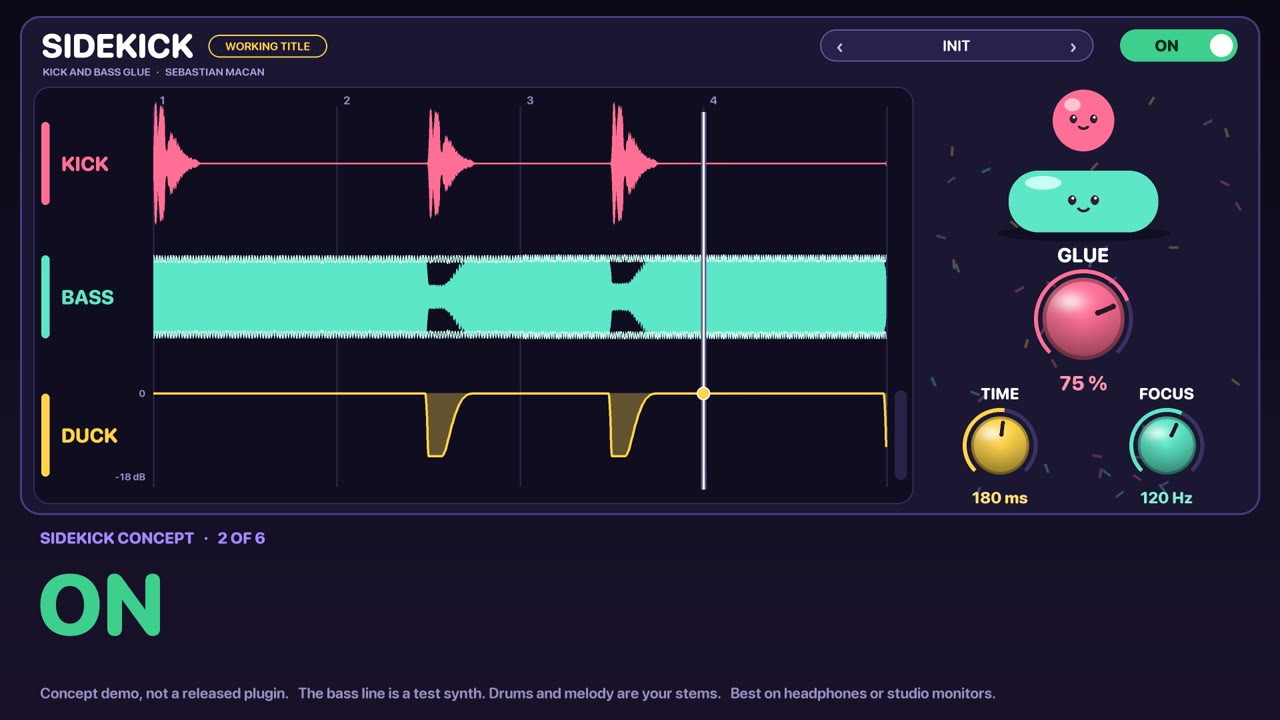
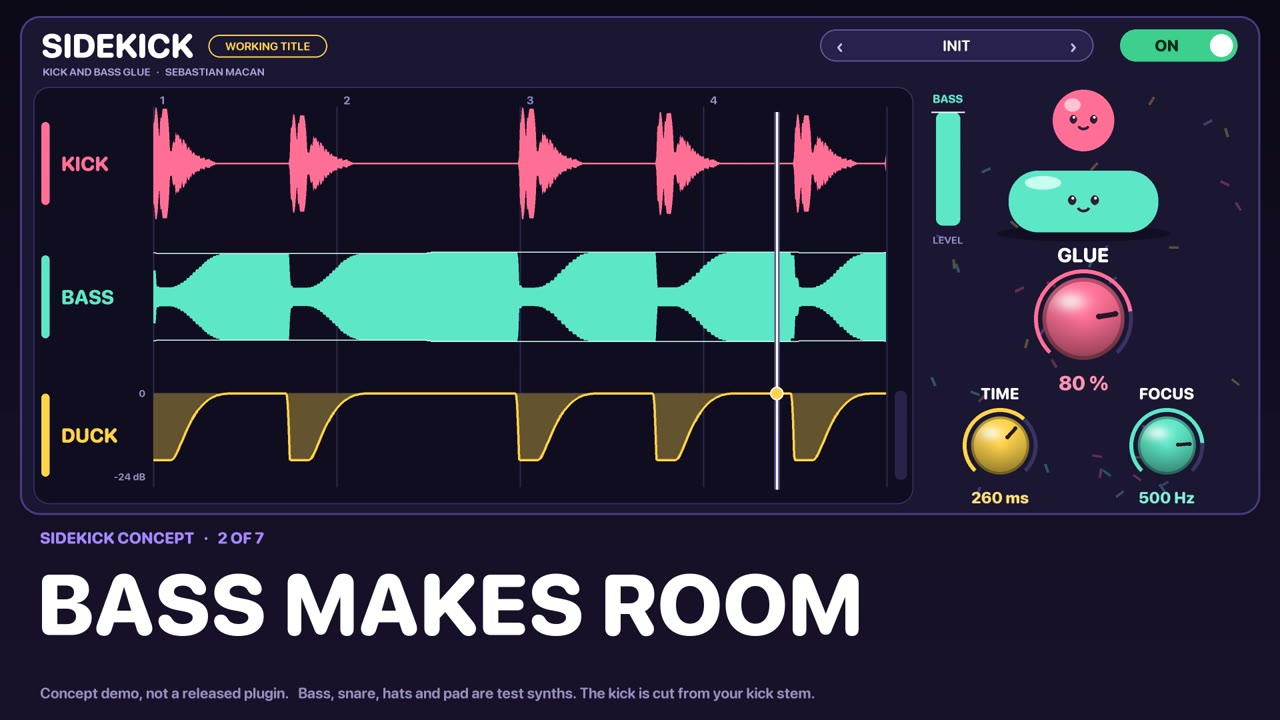
Lab Nov 25: Sidekick v2 video (loud bass)

diff --git a/index.html b/index.html
@@ -697,7 +697,7 @@
       <h2 style="background:linear-gradient(135deg,#7c8cff,#ffd27a);-webkit-background-clip:text;background-clip:text;-webkit-text-fill-color:transparent;">LATE BIRD</h2>
       <p class="tag">Late on purpose.</p>
       <p class="desc">A drum machine with a groove grid. Load a kick, a snare and a hat, or a whole sample pack. Sixteen steps per lane. Drag any hit late or early and the beat stops sounding like a computer.</p>
-      <a class="shot" href="lab/nov25/#latebird" style="display:block"><img src="lab/nov25/latebird.jpg?v=v1125a" alt="LATE BIRD concept video" loading="lazy" style="width:100%;display:block;border-radius:10px"></a>
+      <a class="shot" href="lab/nov25/#latebird" style="display:block"><img src="lab/nov25/latebird.jpg?v=v1125b" alt="LATE BIRD concept video" loading="lazy" style="width:100%;display:block;border-radius:10px"></a>
       <a class="dl" href="lab/nov25/#latebird" style="background:linear-gradient(135deg,#7c8cff,#ffd27a);">Watch the concept video</a>
       <div class="meta">Concept demo &middot; not a plugin yet</div>
     </div>
@@ -707,7 +707,7 @@
       <h2 style="background:linear-gradient(135deg,#bfe9ff,#b89cff);-webkit-background-clip:text;background-clip:text;-webkit-text-fill-color:transparent;">BOO TAPS</h2>
       <p class="tag">Tiny hits between the hits.</p>
       <p class="desc">Put it on a snare or a whole drum loop. It listens for the hits and adds quiet ghost notes in the gaps, the little taps a real drummer plays without thinking.</p>
-      <a class="shot" href="lab/nov25/#bootaps" style="display:block"><img src="lab/nov25/bootaps.jpg?v=v1125a" alt="BOO TAPS concept video" loading="lazy" style="width:100%;display:block;border-radius:10px"></a>
+      <a class="shot" href="lab/nov25/#bootaps" style="display:block"><img src="lab/nov25/bootaps.jpg?v=v1125b" alt="BOO TAPS concept video" loading="lazy" style="width:100%;display:block;border-radius:10px"></a>
       <a class="dl" href="lab/nov25/#bootaps" style="background:linear-gradient(135deg,#bfe9ff,#b89cff);">Watch the concept video</a>
       <div class="meta">Concept demo &middot; not a plugin yet</div>
     </div>
@@ -717,7 +717,7 @@
       <h2 style="background:linear-gradient(135deg,#3cdcff,#7dffb0);-webkit-background-clip:text;background-clip:text;-webkit-text-fill-color:transparent;">TUNA</h2>
       <p class="tag">Drums in key. One knob.</p>
       <p class="desc">Pick the key of the song. TUNA hears the pitch of the kick and the snare and slides each one to a note that fits.</p>
-      <a class="shot" href="lab/nov25/#tuna" style="display:block"><img src="lab/nov25/tuna.jpg?v=v1125a" alt="TUNA concept video" loading="lazy" style="width:100%;display:block;border-radius:10px"></a>
+      <a class="shot" href="lab/nov25/#tuna" style="display:block"><img src="lab/nov25/tuna.jpg?v=v1125b" alt="TUNA concept video" loading="lazy" style="width:100%;display:block;border-radius:10px"></a>
       <a class="dl" href="lab/nov25/#tuna" style="background:linear-gradient(135deg,#3cdcff,#7dffb0);">Watch the concept video</a>
       <div class="meta">Concept demo &middot; not a plugin yet</div>
     </div>
@@ -727,7 +727,7 @@
       <h2 style="background:linear-gradient(135deg,#8fd62a,#ffe066);-webkit-background-clip:text;background-clip:text;-webkit-text-fill-color:transparent;">GECKO</h2>
       <p class="tag">Short and tight. Or long and washy.</p>
       <p class="desc">One knob for the tail of every drum hit. Left makes hits short and tight. Right lets them ring out. The front of the hit is never touched.</p>
-      <a class="shot" href="lab/nov25/#gecko" style="display:block"><img src="lab/nov25/gecko.jpg?v=v1125a" alt="GECKO concept video" loading="lazy" style="width:100%;display:block;border-radius:10px"></a>
+      <a class="shot" href="lab/nov25/#gecko" style="display:block"><img src="lab/nov25/gecko.jpg?v=v1125b" alt="GECKO concept video" loading="lazy" style="width:100%;display:block;border-radius:10px"></a>
       <a class="dl" href="lab/nov25/#gecko" style="background:linear-gradient(135deg,#8fd62a,#ffe066);">Watch the concept video</a>
       <div class="meta">Concept demo &middot; not a plugin yet</div>
     </div>
@@ -737,7 +737,7 @@
       <h2 style="background:linear-gradient(135deg,#ff6fa8,#7dffcf);-webkit-background-clip:text;background-clip:text;-webkit-text-fill-color:transparent;">SIDEKICK</h2>
       <p class="tag">The bass makes room for the kick.</p>
       <p class="desc">Put it on the bass. It hears the kick and dips the low end of the bass under every kick, then lets it swell back. No sidechain routing.</p>
-      <a class="shot" href="lab/nov25/#sidekick" style="display:block"><img src="lab/nov25/sidekick.jpg?v=v1125a" alt="SIDEKICK concept video" loading="lazy" style="width:100%;display:block;border-radius:10px"></a>
+      <a class="shot" href="lab/nov25/#sidekick" style="display:block"><img src="lab/nov25/sidekick.jpg?v=v1125b" alt="SIDEKICK concept video" loading="lazy" style="width:100%;display:block;border-radius:10px"></a>
       <a class="dl" href="lab/nov25/#sidekick" style="background:linear-gradient(135deg,#ff6fa8,#7dffcf);">Watch the concept video</a>
       <div class="meta">Concept demo &middot; not a plugin yet</div>
     </div>
@@ -747,7 +747,7 @@
       <h2 style="background:linear-gradient(135deg,#ffb347,#fff3d0);-webkit-background-clip:text;background-clip:text;-webkit-text-fill-color:transparent;">LOOSE GOOSE</h2>
       <p class="tag">Hats played by hand.</p>
       <p class="desc">Programmed hats all sound the same. LOOSE GOOSE makes every hat a little different in level, brightness and timing, so they sound played.</p>
-      <a class="shot" href="lab/nov25/#loosegoose" style="display:block"><img src="lab/nov25/loosegoose.jpg?v=v1125a" alt="LOOSE GOOSE concept video" loading="lazy" style="width:100%;display:block;border-radius:10px"></a>
+      <a class="shot" href="lab/nov25/#loosegoose" style="display:block"><img src="lab/nov25/loosegoose.jpg?v=v1125b" alt="LOOSE GOOSE concept video" loading="lazy" style="width:100%;display:block;border-radius:10px"></a>
       <a class="dl" href="lab/nov25/#loosegoose" style="background:linear-gradient(135deg,#ffb347,#fff3d0);">Watch the concept video</a>
       <div class="meta">Concept demo &middot; not a plugin yet</div>
     </div>

diff --git a/lab/nov25_section.html b/lab/nov25_section.html
@@ -7,7 +7,7 @@
       <h2 style="background:linear-gradient(135deg,#7c8cff,#ffd27a);-webkit-background-clip:text;background-clip:text;-webkit-text-fill-color:transparent;">LATE BIRD</h2>
       <p class="tag">Late on purpose.</p>
       <p class="desc">A drum machine with a groove grid. Load a kick, a snare and a hat, or a whole sample pack. Sixteen steps per lane. Drag any hit late or early and the beat stops sounding like a computer.</p>
-      <a class="shot" href="lab/nov25/#latebird" style="display:block"><img src="lab/nov25/latebird.jpg?v=v1125a" alt="LATE BIRD concept video" loading="lazy" style="width:100%;display:block;border-radius:10px"></a>
+      <a class="shot" href="lab/nov25/#latebird" style="display:block"><img src="lab/nov25/latebird.jpg?v=v1125b" alt="LATE BIRD concept video" loading="lazy" style="width:100%;display:block;border-radius:10px"></a>
       <a class="dl" href="lab/nov25/#latebird" style="background:linear-gradient(135deg,#7c8cff,#ffd27a);">Watch the concept video</a>
       <div class="meta">Concept demo &middot; not a plugin yet</div>
     </div>
@@ -17,7 +17,7 @@
       <h2 style="background:linear-gradient(135deg,#bfe9ff,#b89cff);-webkit-background-clip:text;background-clip:text;-webkit-text-fill-color:transparent;">BOO TAPS</h2>
       <p class="tag">Tiny hits between the hits.</p>
       <p class="desc">Put it on a snare or a whole drum loop. It listens for the hits and adds quiet ghost notes in the gaps, the little taps a real drummer plays without thinking.</p>
-      <a class="shot" href="lab/nov25/#bootaps" style="display:block"><img src="lab/nov25/bootaps.jpg?v=v1125a" alt="BOO TAPS concept video" loading="lazy" style="width:100%;display:block;border-radius:10px"></a>
+      <a class="shot" href="lab/nov25/#bootaps" style="display:block"><img src="lab/nov25/bootaps.jpg?v=v1125b" alt="BOO TAPS concept video" loading="lazy" style="width:100%;display:block;border-radius:10px"></a>
       <a class="dl" href="lab/nov25/#bootaps" style="background:linear-gradient(135deg,#bfe9ff,#b89cff);">Watch the concept video</a>
       <div class="meta">Concept demo &middot; not a plugin yet</div>
     </div>
@@ -27,7 +27,7 @@
       <h2 style="background:linear-gradient(135deg,#3cdcff,#7dffb0);-webkit-background-clip:text;background-clip:text;-webkit-text-fill-color:transparent;">TUNA</h2>
       <p class="tag">Drums in key. One knob.</p>
       <p class="desc">Pick the key of the song. TUNA hears the pitch of the kick and the snare and slides each one to a note that fits.</p>
-      <a class="shot" href="lab/nov25/#tuna" style="display:block"><img src="lab/nov25/tuna.jpg?v=v1125a" alt="TUNA concept video" loading="lazy" style="width:100%;display:block;border-radius:10px"></a>
+      <a class="shot" href="lab/nov25/#tuna" style="display:block"><img src="lab/nov25/tuna.jpg?v=v1125b" alt="TUNA concept video" loading="lazy" style="width:100%;display:block;border-radius:10px"></a>
       <a class="dl" href="lab/nov25/#tuna" style="background:linear-gradient(135deg,#3cdcff,#7dffb0);">Watch the concept video</a>
       <div class="meta">Concept demo &middot; not a plugin yet</div>
     </div>
@@ -37,7 +37,7 @@
       <h2 style="background:linear-gradient(135deg,#8fd62a,#ffe066);-webkit-background-clip:text;background-clip:text;-webkit-text-fill-color:transparent;">GECKO</h2>
       <p class="tag">Short and tight. Or long and washy.</p>
       <p class="desc">One knob for the tail of every drum hit. Left makes hits short and tight. Right lets them ring out. The front of the hit is never touched.</p>
-      <a class="shot" href="lab/nov25/#gecko" style="display:block"><img src="lab/nov25/gecko.jpg?v=v1125a" alt="GECKO concept video" loading="lazy" style="width:100%;display:block;border-radius:10px"></a>
+      <a class="shot" href="lab/nov25/#gecko" style="display:block"><img src="lab/nov25/gecko.jpg?v=v1125b" alt="GECKO concept video" loading="lazy" style="width:100%;display:block;border-radius:10px"></a>
       <a class="dl" href="lab/nov25/#gecko" style="background:linear-gradient(135deg,#8fd62a,#ffe066);">Watch the concept video</a>
       <div class="meta">Concept demo &middot; not a plugin yet</div>
     </div>
@@ -47,7 +47,7 @@
       <h2 style="background:linear-gradient(135deg,#ff6fa8,#7dffcf);-webkit-background-clip:text;background-clip:text;-webkit-text-fill-color:transparent;">SIDEKICK</h2>
       <p class="tag">The bass makes room for the kick.</p>
       <p class="desc">Put it on the bass. It hears the kick and dips the low end of the bass under every kick, then lets it swell back. No sidechain routing.</p>
-      <a class="shot" href="lab/nov25/#sidekick" style="display:block"><img src="lab/nov25/sidekick.jpg?v=v1125a" alt="SIDEKICK concept video" loading="lazy" style="width:100%;display:block;border-radius:10px"></a>
+      <a class="shot" href="lab/nov25/#sidekick" style="display:block"><img src="lab/nov25/sidekick.jpg?v=v1125b" alt="SIDEKICK concept video" loading="lazy" style="width:100%;display:block;border-radius:10px"></a>
       <a class="dl" href="lab/nov25/#sidekick" style="background:linear-gradient(135deg,#ff6fa8,#7dffcf);">Watch the concept video</a>
       <div class="meta">Concept demo &middot; not a plugin yet</div>
     </div>
@@ -57,7 +57,7 @@
       <h2 style="background:linear-gradient(135deg,#ffb347,#fff3d0);-webkit-background-clip:text;background-clip:text;-webkit-text-fill-color:transparent;">LOOSE GOOSE</h2>
       <p class="tag">Hats played by hand.</p>
       <p class="desc">Programmed hats all sound the same. LOOSE GOOSE makes every hat a little different in level, brightness and timing, so they sound played.</p>
-      <a class="shot" href="lab/nov25/#loosegoose" style="display:block"><img src="lab/nov25/loosegoose.jpg?v=v1125a" alt="LOOSE GOOSE concept video" loading="lazy" style="width:100%;display:block;border-radius:10px"></a>
+      <a class="shot" href="lab/nov25/#loosegoose" style="display:block"><img src="lab/nov25/loosegoose.jpg?v=v1125b" alt="LOOSE GOOSE concept video" loading="lazy" style="width:100%;display:block;border-radius:10px"></a>
       <a class="dl" href="lab/nov25/#loosegoose" style="background:linear-gradient(135deg,#ffb347,#fff3d0);">Watch the concept video</a>
       <div class="meta">Concept demo &middot; not a plugin yet</div>
     </div>

diff --git a/lab/nov25/index.html b/lab/nov25/index.html
@@ -62,7 +62,7 @@
       <p class="tag">Late on purpose.</p>
       <div class="studio">
         <div class="frame">
-          <video playsinline preload="none" poster="latebird.jpg?v=v1125a" controlslist="nodownload"><source src="https://video.sebastianmacan.com/img/video/lab_nov25_latebird.mp4?v=v1125a" type="video/mp4"></video>
+          <video playsinline preload="none" poster="latebird.jpg?v=v1125b" controlslist="nodownload"><source src="https://video.sebastianmacan.com/img/video/lab_nov25_latebird.mp4?v=v1125b" type="video/mp4"></video>
           <div class="play" aria-label="Play"><span></span></div>
           <div class="sound">&#9654; WITH SOUND</div>
         </div>
@@ -78,7 +78,7 @@
         <div class="knob"><b>Presets</b><span>SLEEPY HEAD and TIP TOE</span></div>
       </div>
       <h3>Four looks, same controls</h3>
-      <img class="looks" src="latebird_looks.jpg?v=v1125a" alt="Four Late Bird window designs: night sky branch, sunrise bedroom, dark studio neon, toy store candy" loading="lazy">
+      <img class="looks" src="latebird_looks.jpg?v=v1125b" alt="Four Late Bird window designs: night sky branch, sunrise bedroom, dark studio neon, toy store candy" loading="lazy">
       <p class="note">1 Night sky branch. 2 Sunrise bedroom. 3 Dark studio neon. 4 Toy store candy.</p>
       <h3>Where it goes next</h3>
       <ul>
@@ -95,7 +95,7 @@
       <p class="tag">Tiny hits between the hits.</p>
       <div class="studio">
         <div class="frame">
-          <video playsinline preload="none" poster="bootaps.jpg?v=v1125a" controlslist="nodownload"><source src="https://video.sebastianmacan.com/img/video/lab_nov25_bootaps.mp4?v=v1125a" type="video/mp4"></video>
+          <video playsinline preload="none" poster="bootaps.jpg?v=v1125b" controlslist="nodownload"><source src="https://video.sebastianmacan.com/img/video/lab_nov25_bootaps.mp4?v=v1125b" type="video/mp4"></video>
           <div class="play" aria-label="Play"><span></span></div>
           <div class="sound">&#9654; WITH SOUND</div>
         </div>
@@ -124,7 +124,7 @@
       <p class="tag">Drums in key. One knob.</p>
       <div class="studio">
         <div class="frame">
-          <video playsinline preload="none" poster="tuna.jpg?v=v1125a" controlslist="nodownload"><source src="https://video.sebastianmacan.com/img/video/lab_nov25_tuna.mp4?v=v1125a" type="video/mp4"></video>
+          <video playsinline preload="none" poster="tuna.jpg?v=v1125b" controlslist="nodownload"><source src="https://video.sebastianmacan.com/img/video/lab_nov25_tuna.mp4?v=v1125b" type="video/mp4"></video>
           <div class="play" aria-label="Play"><span></span></div>
           <div class="sound">&#9654; WITH SOUND</div>
         </div>
@@ -154,7 +154,7 @@
       <p class="tag">Short and tight. Or long and washy.</p>
       <div class="studio">
         <div class="frame">
-          <video playsinline preload="none" poster="gecko.jpg?v=v1125a" controlslist="nodownload"><source src="https://video.sebastianmacan.com/img/video/lab_nov25_gecko.mp4?v=v1125a" type="video/mp4"></video>
+          <video playsinline preload="none" poster="gecko.jpg?v=v1125b" controlslist="nodownload"><source src="https://video.sebastianmacan.com/img/video/lab_nov25_gecko.mp4?v=v1125b" type="video/mp4"></video>
           <div class="play" aria-label="Play"><span></span></div>
           <div class="sound">&#9654; WITH SOUND</div>
         </div>
@@ -183,11 +183,11 @@
       <p class="tag">The bass makes room for the kick.</p>
       <div class="studio">
         <div class="frame">
-          <video playsinline preload="none" poster="sidekick.jpg?v=v1125a" controlslist="nodownload"><source src="https://video.sebastianmacan.com/img/video/lab_nov25_sidekick.mp4?v=v1125a" type="video/mp4"></video>
+          <video playsinline preload="none" poster="sidekick.jpg?v=v1125b" controlslist="nodownload"><source src="https://video.sebastianmacan.com/img/video/lab_nov25_sidekick.mp4?v=v1125b" type="video/mp4"></video>
           <div class="play" aria-label="Play"><span></span></div>
           <div class="sound">&#9654; WITH SOUND</div>
         </div>
-        <p class="cap">First take. The bass in this one is too quiet to judge; a new video on a beat with a loud bassline replaces it.</p>
+        <p class="cap">Off, then on, then each knob, then both presets, then off and on at the end.</p>
       </div>
       <h3>What it does</h3>
       <p>Put it on the bass. It hears the kick and dips the low end of the bass under every kick, then lets it swell back. No sidechain routing.</p>
@@ -211,7 +211,7 @@
       <p class="tag">Hats played by hand.</p>
       <div class="studio">
         <div class="frame">
-          <video playsinline preload="none" poster="loosegoose.jpg?v=v1125a" controlslist="nodownload"><source src="https://video.sebastianmacan.com/img/video/lab_nov25_loosegoose.mp4?v=v1125a" type="video/mp4"></video>
+          <video playsinline preload="none" poster="loosegoose.jpg?v=v1125b" controlslist="nodownload"><source src="https://video.sebastianmacan.com/img/video/lab_nov25_loosegoose.mp4?v=v1125b" type="video/mp4"></video>
           <div class="play" aria-label="Play"><span></span></div>
           <div class="sound">&#9654; WITH SOUND</div>
         </div>
